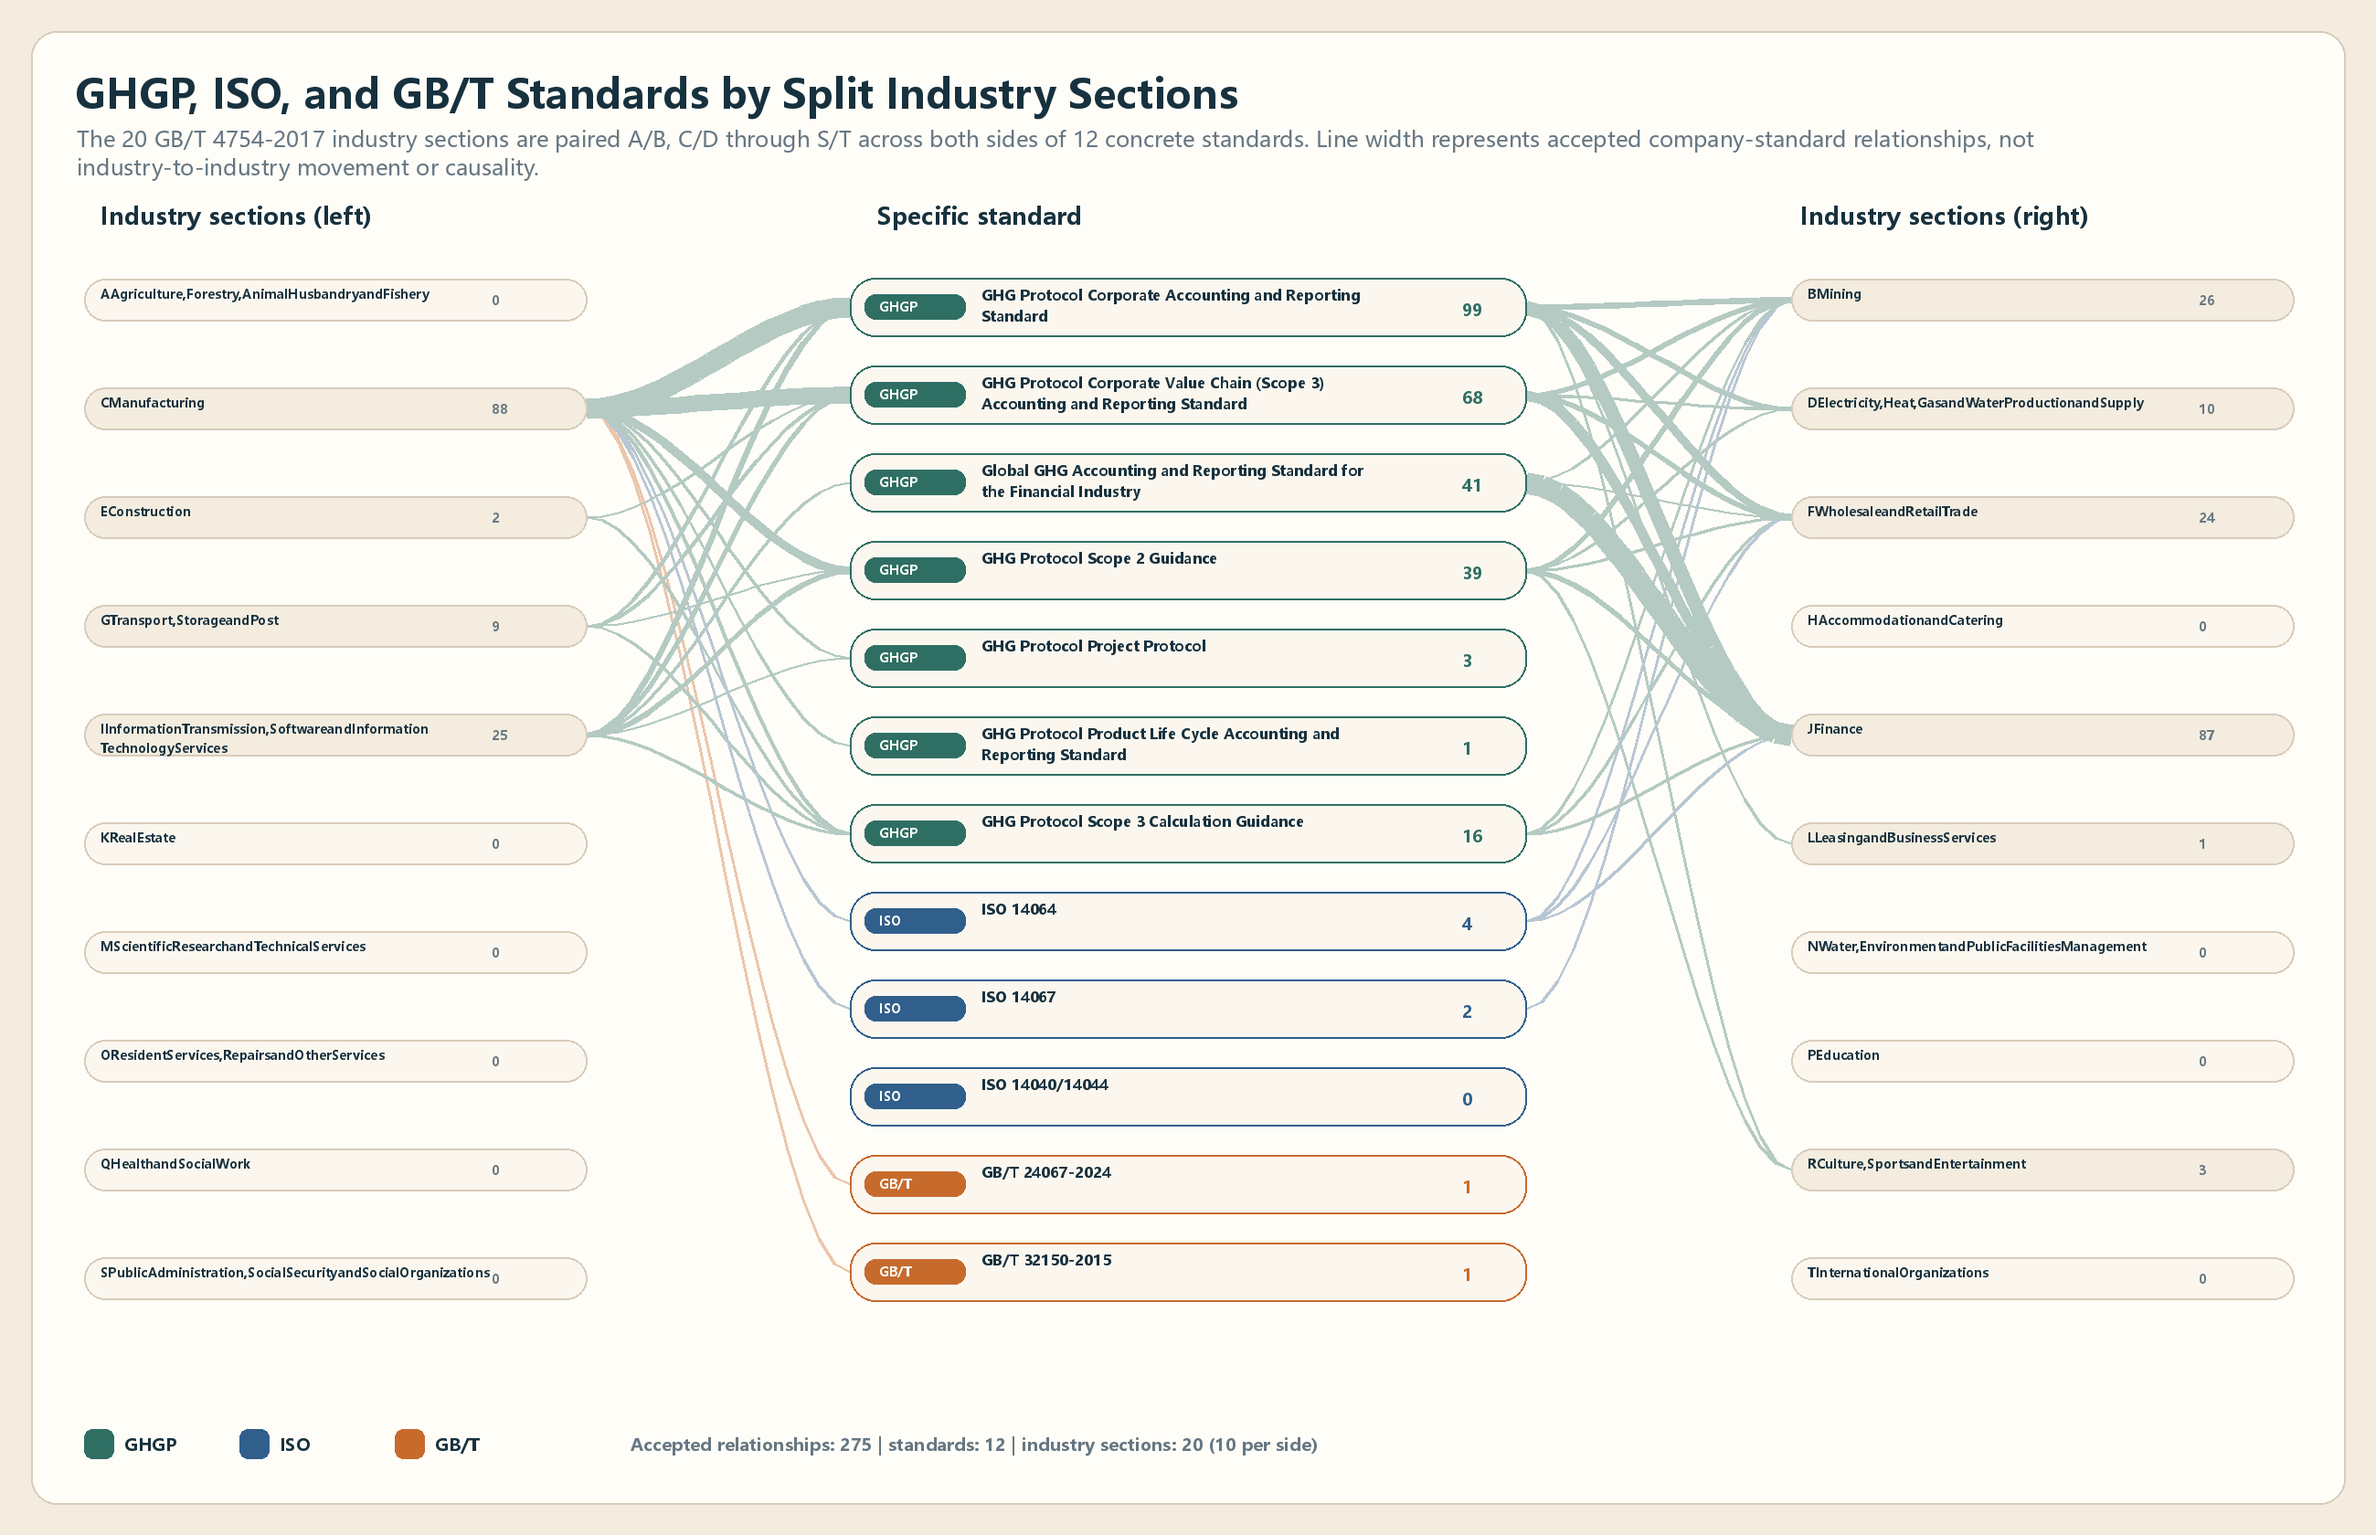
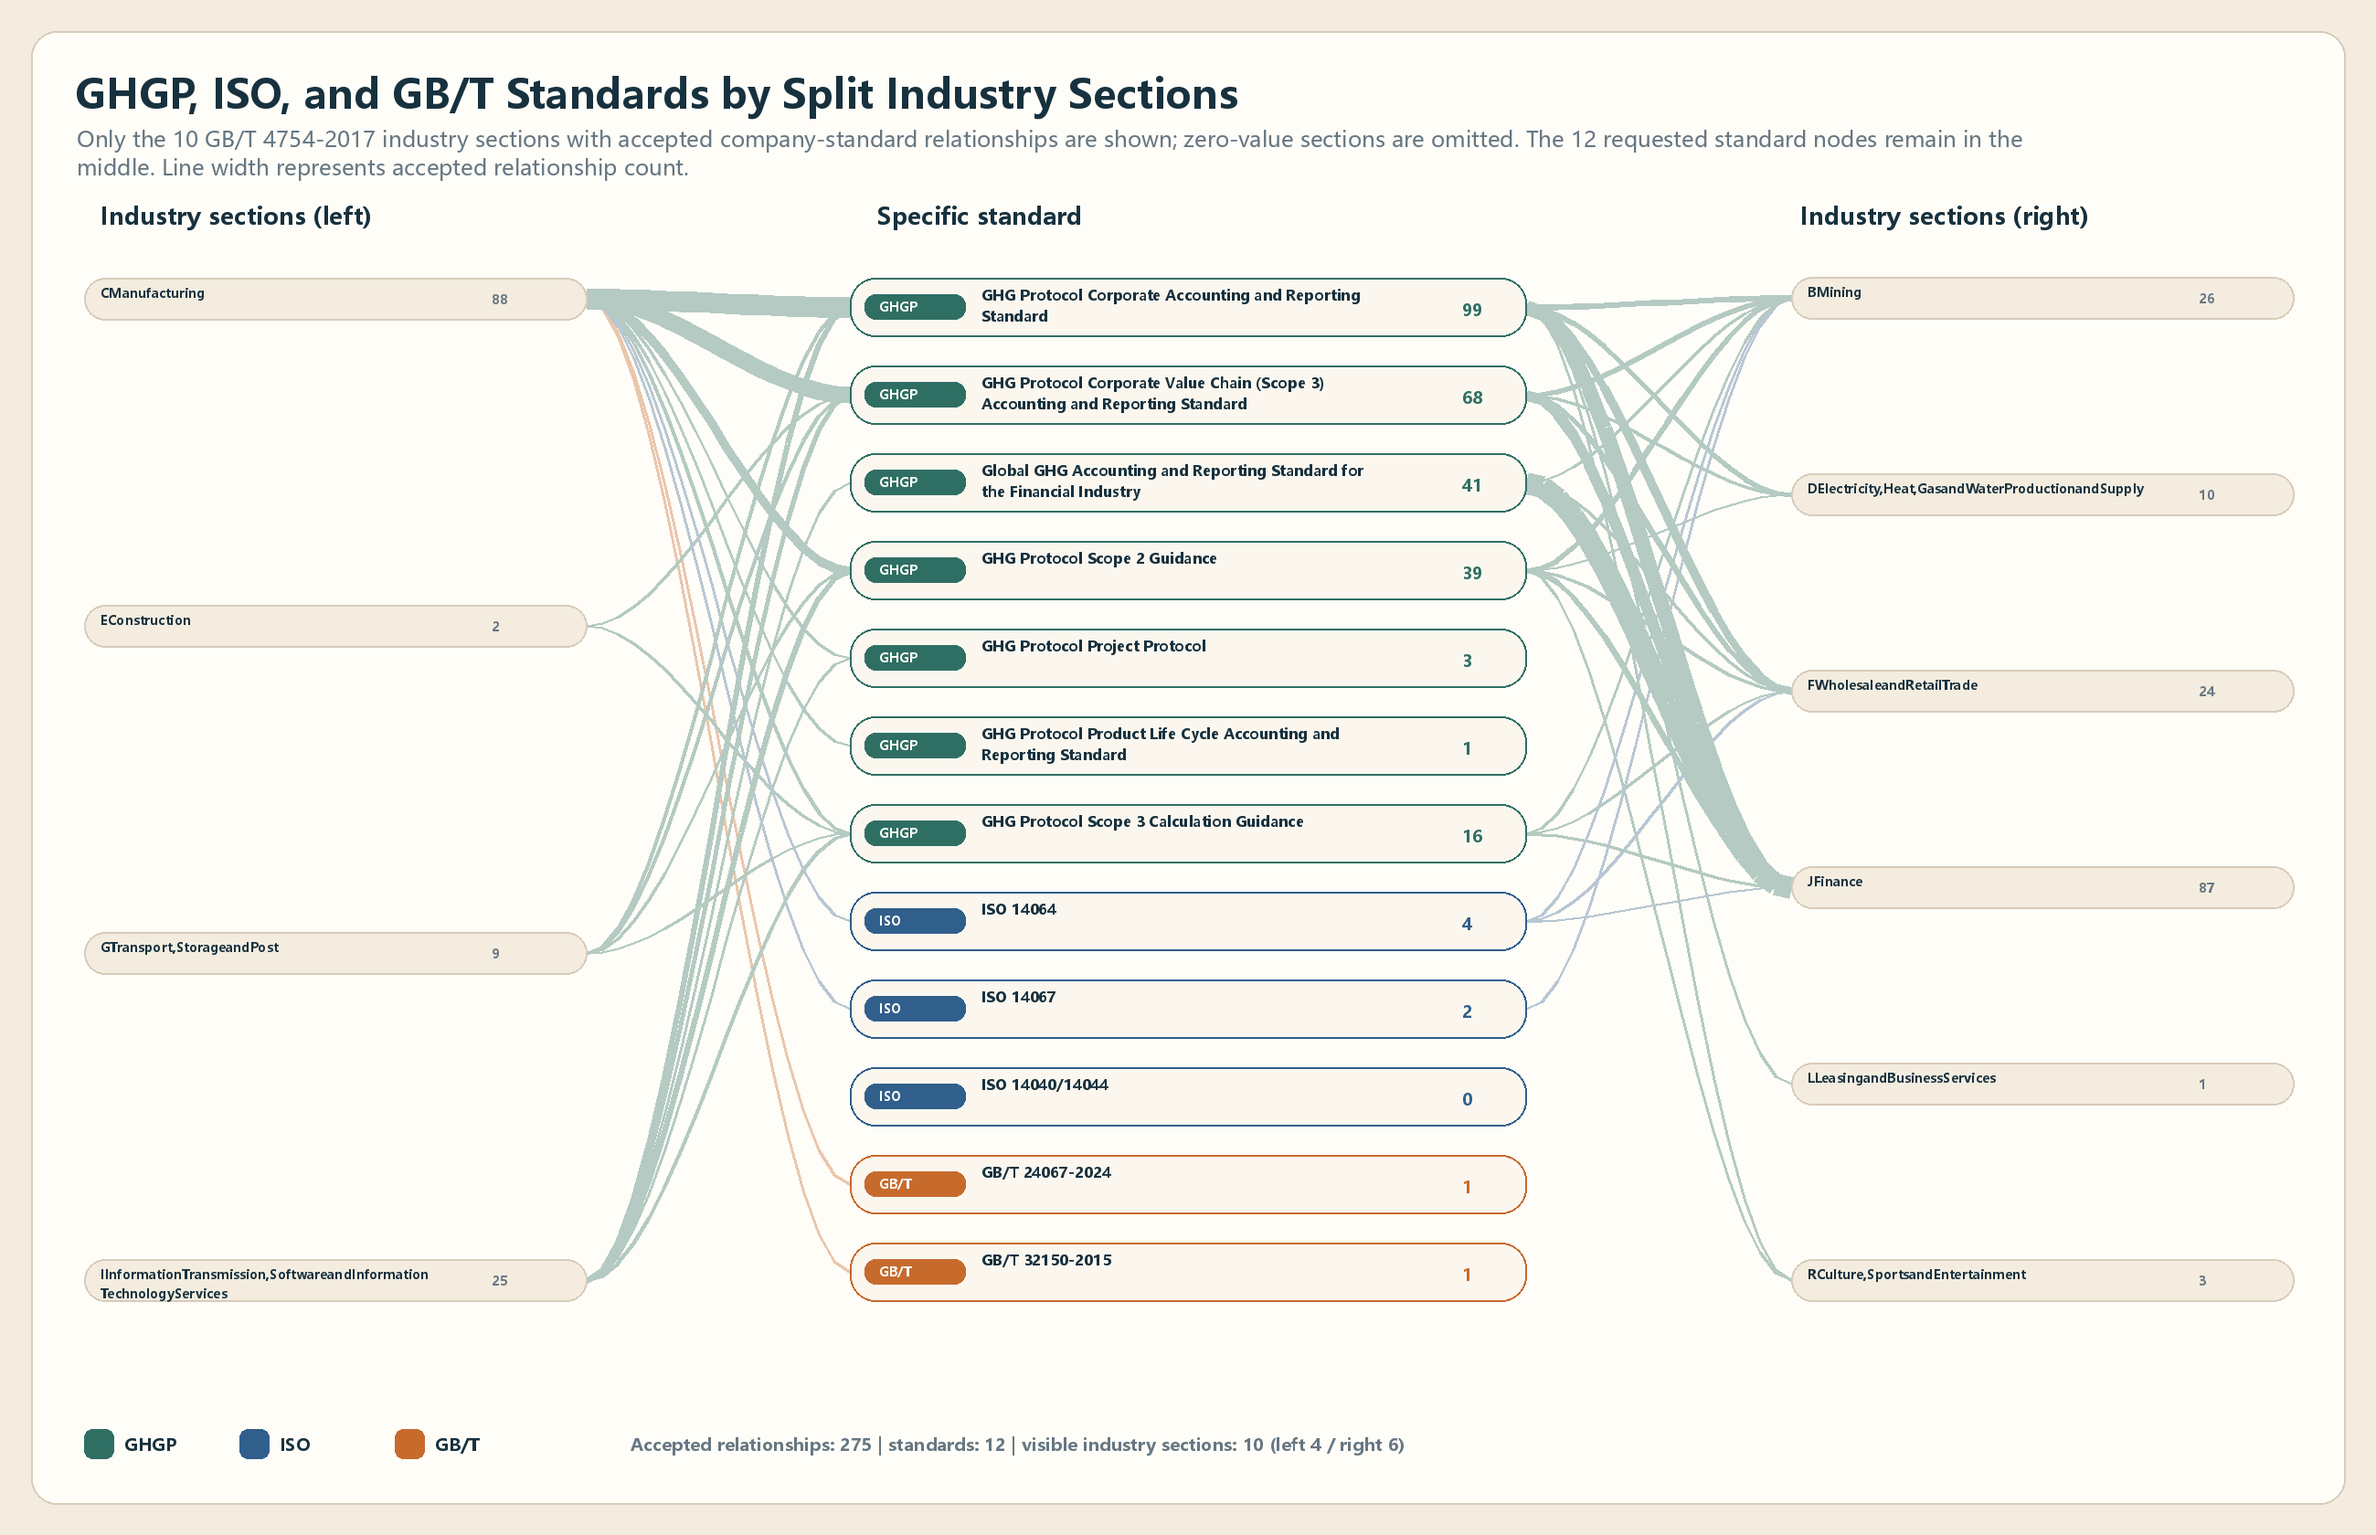
Hide zero-value industry sections from Sankey

diff --git a/reporting-completion-audit.html b/reporting-completion-audit.html
@@ -22,7 +22,7 @@
 <ul>
 <li>生成时间：2026-07-08</li>
 <li>审计矩阵日期：2026-06-07</li>
-<li>PNG manifest 生成时间：2026-08-14T10:23:35+00:00</li>
+<li>PNG manifest 生成时间：2026-08-18T06:33:53+00:00</li>
 <li>总体状态：partial</li>
 <li>是否可以声明全部完成：不可</li>
 </ul>

diff --git a/tools/sync_industry_static_figures.py b/tools/sync_industry_static_figures.py
@@ -94,11 +94,20 @@ def render_sankey(lang: str) -> Path:
     links = read_rows("world500_standard_industry_section_sankey_links")
     registry = read_rows("standard_industry_sankey_registry")
     sections = read_rows("national_industry_section_registry")
+    section_total = {str(row["industry_section_code"]): 0 for row in sections}
+    standard_total = {str(row["internal_standard_id"]): 0 for row in registry}
+    for row in links:
+        count = int(row["accepted_link_count"])
+        section_total[str(row["industry_section_code"])] += count
+        standard_total[str(row["internal_standard_id"])] += count
+    left_sections = [row for row in sections[::2] if section_total[str(row["industry_section_code"])] > 0]
+    right_sections = [row for row in sections[1::2] if section_total[str(row["industry_section_code"])] > 0]
+    visible_section_count = len(left_sections) + len(right_sections)
     image = Image.new("RGB", (2600, 1680), PALETTE["bg"])
     draw = ImageDraw.Draw(image)
     rounded(draw, (34, 34, 2566, 1646), PALETTE["paper"])
     title = "\u4e09\u5957\u6807\u51c6\u4f53\u7cfb\u4e0e\u56fd\u6c11\u7ecf\u6d4e\u884c\u4e1a\u95e8\u7c7b\u5206\u680f\u5173\u8054\u56fe" if lang == "zh" else "GHGP, ISO, and GB/T Standards by Split Industry Sections"
-    note = "GB/T 4754-2017 \u7684 20 \u4e2a\u884c\u4e1a\u95e8\u7c7b\u6309 A/B\u3001C/D \u81f3 S/T \u6210\u5bf9\u5206\u5e03\u4e8e\u4e24\u4fa7\uff0c\u4e2d\u95f4\u4e3a 12 \u4e2a\u5177\u4f53\u6807\u51c6\u8282\u70b9\u3002\u7ebf\u5bbd\u6309\u5df2\u91c7\u4fe1\u7684\u4f01\u4e1a-\u6807\u51c6\u5173\u7cfb\u6570\u8ba1\u7b97\uff0c\u4e0d\u8868\u793a\u884c\u4e1a\u95f4\u6d41\u52a8\u6216\u56e0\u679c\u5173\u7cfb\u3002" if lang == "zh" else "The 20 GB/T 4754-2017 industry sections are paired A/B, C/D through S/T across both sides of 12 concrete standards. Line width represents accepted company-standard relationships, not industry-to-industry movement or causality."
+    note = f"\u4ec5\u5c55\u793a\u5b58\u5728\u5df2\u91c7\u4fe1\u4f01\u4e1a-\u6807\u51c6\u5173\u7cfb\u7684 {visible_section_count} \u4e2a GB/T 4754-2017 \u884c\u4e1a\u95e8\u7c7b\uff0c0 \u503c\u95e8\u7c7b\u5df2\u7701\u7565\uff1b\u4e2d\u95f4\u4fdd\u7559\u9700\u6c42\u65b9\u6307\u5b9a\u7684 {len(registry)} \u4e2a\u5177\u4f53\u6807\u51c6\u8282\u70b9\u3002\u7ebf\u5bbd\u6309\u5df2\u91c7\u4fe1\u5173\u7cfb\u6570\u8ba1\u7b97\u3002" if lang == "zh" else f"Only the {visible_section_count} GB/T 4754-2017 industry sections with accepted company-standard relationships are shown; zero-value sections are omitted. The {len(registry)} requested standard nodes remain in the middle. Line width represents accepted relationship count."
     draw.text((82, 72), title, font=font(44, True), fill=PALETTE["ink"])
     text(draw, (84, 135), note, 24, PALETTE["muted"], 2220)
     column_labels = ("\u884c\u4e1a\u95e8\u7c7b\uff08\u5de6\uff09", "\u5177\u4f53\u6807\u51c6", "\u884c\u4e1a\u95e8\u7c7b\uff08\u53f3\uff09") if lang == "zh" else ("Industry sections (left)", "Specific standard", "Industry sections (right)")
@@ -112,23 +121,15 @@ def render_sankey(lang: str) -> Path:
     section_h, standard_h = 46, 64
     standard_top = 304
     standard_step = 96
-    left_sections = sections[::2]
-    right_sections = sections[1::2]
     standard_span = max(standard_h, (len(registry) - 1) * standard_step + standard_h)
-    side_count = max(len(left_sections), len(right_sections), 1)
-    section_step = 0 if side_count == 1 else round((standard_span - section_h) / (side_count - 1))
-    section_span = (side_count - 1) * section_step + section_h
-    section_top = standard_top + (standard_span - section_span) // 2
     left_codes = {str(row["industry_section_code"]) for row in left_sections}
-    section_y = {str(row["industry_section_code"]): section_top + index * section_step for index, row in enumerate(left_sections)}
-    section_y.update({str(row["industry_section_code"]): section_top + index * section_step for index, row in enumerate(right_sections)})
+    section_y = {}
+    for side_sections in (left_sections, right_sections):
+        section_step = 0 if len(side_sections) == 1 else round((standard_span - section_h) / (len(side_sections) - 1))
+        section_span = (len(side_sections) - 1) * section_step + section_h
+        section_top = standard_top + (standard_span - section_span) // 2
+        section_y.update({str(row["industry_section_code"]): section_top + index * section_step for index, row in enumerate(side_sections)})
     standard_y = {str(row["internal_standard_id"]): standard_top + index * standard_step for index, row in enumerate(registry)}
-    section_total = {str(row["industry_section_code"]): 0 for row in sections}
-    standard_total = {str(row["internal_standard_id"]): 0 for row in registry}
-    for row in links:
-        count = int(row["accepted_link_count"])
-        section_total[str(row["industry_section_code"])] += count
-        standard_total[str(row["internal_standard_id"])] += count
     max_count = max((int(row["accepted_link_count"]) for row in links), default=1)
     overlay = Image.new("RGBA", image.size, (0, 0, 0, 0))
     flow_draw = ImageDraw.Draw(overlay)
@@ -158,8 +159,7 @@ def render_sankey(lang: str) -> Path:
             code = str(row["industry_section_code"])
             name = str(row["industry_section_name_zh" if lang == "zh" else "industry_section_name_en"])
             y = section_y[code]
-            fill = PALETTE["bg"] if section_total[code] else "#fbf7ef"
-            rounded(draw, (x1, y, x2, y + section_h), fill)
+            rounded(draw, (x1, y, x2, y + section_h), PALETTE["bg"])
             text(draw, (x1 + 18, y + 7), f"{code} {name}", 14, PALETTE["ink"], x2 - x1 - 112, True)
             count_label = f"{section_total[code]} \u6761" if lang == "zh" else str(section_total[code])
             draw.text((x2 - 104, y + 13), count_label, font=font(15, True), fill=PALETTE["muted"])
@@ -181,7 +181,7 @@ def render_sankey(lang: str) -> Path:
         x = 92 + index * 170
         draw.rounded_rectangle((x, 1564, x + 32, 1596), radius=9, fill=color)
         draw.text((x + 44, 1567), label, font=font(19, True), fill=PALETTE["ink"])
-    footer = f"\u5df2\u91c7\u4fe1\u5173\u7cfb {sum(standard_total.values())} \u6761 | \u5177\u4f53\u6807\u51c6 12 \u4e2a | \u884c\u4e1a\u95e8\u7c7b 20 \u4e2a\uff08\u5de6\u53f3\u5404 10 \u4e2a\uff09" if lang == "zh" else f"Accepted relationships: {sum(standard_total.values())} | standards: 12 | industry sections: 20 (10 per side)"
+    footer = f"\u5df2\u91c7\u4fe1\u5173\u7cfb {sum(standard_total.values())} \u6761 | \u5177\u4f53\u6807\u51c6 {len(registry)} \u4e2a | \u5c55\u793a\u884c\u4e1a\u95e8\u7c7b {visible_section_count} \u4e2a\uff08\u5de6 {len(left_sections)} / \u53f3 {len(right_sections)}\uff09" if lang == "zh" else f"Accepted relationships: {sum(standard_total.values())} | standards: {len(registry)} | visible industry sections: {visible_section_count} (left {len(left_sections)} / right {len(right_sections)})"
     draw.text((690, 1567), footer, font=font(19, True), fill=PALETTE["muted"])
     out = FIGURES / lang / "world500_standard_industry_section_sankey.png"
     out.parent.mkdir(parents=True, exist_ok=True)

diff --git a/REPORTING_COMPLETION_AUDIT_ZH.md b/REPORTING_COMPLETION_AUDIT_ZH.md
@@ -2,7 +2,7 @@
 
 - 生成时间：2026-07-08
 - 审计矩阵日期：2026-06-07
-- PNG manifest 生成时间：2026-08-14T10:23:35+00:00
+- PNG manifest 生成时间：2026-08-18T06:33:53+00:00
 - 总体状态：partial
 - 是否可以声明全部完成：不可
 
